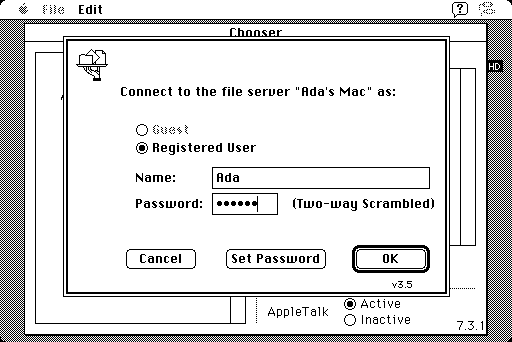
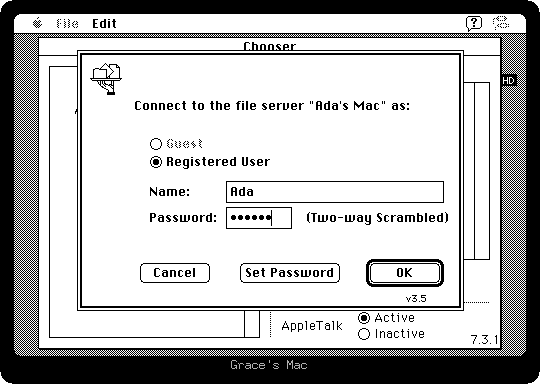
Frame the activity screenshots, and tell Ada's Mac from Grace's
The screenshots are in a black frame with rounded corners, as the glass
of the screen is, so the corners the ROM rounds off read as round
rather than as triangles. On the file sharing page the frame says whose
Macintosh it is, and Grace's screenshots are on the right of the page.
The page now says what to download and what to call it rather than
giving the commands, and that the parameter RAM files do not have to be
there yet.

diff --git a/activities_test.go b/activities_test.go
@@ -1,12 +1,18 @@
 package izmac
 
 import (
+	"image"
+	"image/color"
+	"image/draw"
 	"image/png"
 	"os"
 	"path/filepath"
 	"testing"
 
 	"github.com/ivanizag/izmac/localtalk"
+	"golang.org/x/image/font"
+	"golang.org/x/image/font/basicfont"
+	"golang.org/x/image/math/fixed"
 )
 
 /*
@@ -22,8 +28,66 @@ can be made again when the emulator or the instructions change.
 const activityImages = "doc/activities/images"
 
 // screenshot writes the screen of a machine as one of the images of an
-// activity
+// activity, in its frame
 func screenshot(t *testing.T, m *Mac, activity string, name string) {
+	t.Helper()
+	screenshotOf(t, m, activity, name, "")
+}
+
+/*
+The frame around a screenshot: black, as the glass of the screen of the
+Macintosh is around what it shows, so that the corners the ROM rounds off in
+black read as round, and with rounded corners of its own. A label, when there
+is one, goes in its bottom edge in grey, the way a name is on the front of a
+monitor.
+*/
+const (
+	frameWidth  = 14
+	frameLabel  = 14
+	frameRadius = 12
+)
+
+func framed(screen image.Image, label string) *image.RGBA {
+	b := screen.Bounds()
+	bottom := frameWidth
+	if label != "" {
+		bottom += frameLabel
+	}
+	width, height := b.Dx()+2*frameWidth, b.Dy()+frameWidth+bottom
+	out := image.NewRGBA(image.Rect(0, 0, width, height))
+
+	// Black, but for what the rounding leaves out of each corner
+	corner := func(x int, last int) int {
+		return max(frameRadius-x, x-(last-frameRadius), 0)
+	}
+	for y := 0; y < height; y++ {
+		for x := 0; x < width; x++ {
+			dx, dy := corner(x, width-1), corner(y, height-1)
+			if dx*dx+dy*dy <= frameRadius*frameRadius {
+				out.Set(x, y, color.Black)
+			}
+		}
+	}
+	draw.Draw(out, image.Rect(frameWidth, frameWidth, frameWidth+b.Dx(), frameWidth+b.Dy()),
+		screen, b.Min, draw.Src)
+
+	if label != "" {
+		face := basicfont.Face7x13
+		writer := font.Drawer{
+			Dst:  out,
+			Src:  image.NewUniform(color.Gray{Y: 0xb0}),
+			Face: face,
+		}
+		textWidth := writer.MeasureString(label).Round()
+		writer.Dot = fixed.P((width-textWidth)/2, frameWidth+b.Dy()+frameLabel-1)
+		writer.DrawString(label)
+	}
+	return out
+}
+
+// screenshotOf writes the screen of a machine with a label in its frame,
+// which says whose it is when there are two
+func screenshotOf(t *testing.T, m *Mac, activity string, name string, label string) {
 	t.Helper()
 	folder := filepath.Join(activityImages, activity)
 	if err := os.MkdirAll(folder, 0o755); err != nil {
@@ -34,7 +98,7 @@ func screenshot(t *testing.T, m *Mac, activity string, name string) {
 		t.Fatal(err)
 	}
 	defer f.Close()
-	if err := png.Encode(f, m.GetImage()); err != nil {
+	if err := png.Encode(f, framed(m.GetImage(), label)); err != nil {
 		t.Fatal(err)
 	}
 }
@@ -269,7 +333,7 @@ copies a file into it, which the first then shows. The first runs on a
 goroutine of its own while the second is driven.
 */
 func fileSharingScreenshots(t *testing.T) {
-	const page = "file-sharing"
+	const page, ada, grace = "file-sharing", "Ada's Mac", "Grace's Mac"
 	network := localtalk.NewNetwork()
 	machine := func() *Mac {
 		config := testConfig(t)
@@ -298,15 +362,15 @@ func fileSharingScreenshots(t *testing.T) {
 	typeKeys(server, "Shift+A", "D", "A", "Quote", "S", "Space", "Shift+D", "I", "S", "K")
 	pressKey(server, "Return")
 	server.RunFrames(300)
-	screenshot(t, server, page, "disk-window")
+	screenshotOf(t, server, page, "disk-window", ada)
 	for _, at := range [][2]int16{{160, 92}, {358, 92}} {
 		doubleClickAt(t, server, at[0], at[1])
 		server.RunFrames(900)
 	}
-	screenshot(t, server, page, "control-panels")
+	screenshotOf(t, server, page, "control-panels", ada)
 	doubleClickAt(t, server, 232, 92)
 	server.RunFrames(900)
-	screenshot(t, server, page, "sharing-setup")
+	screenshotOf(t, server, page, "sharing-setup", ada)
 	moveMouseTo(t, server, 300, 85)
 	clickMouse(server)
 	typeKeys(server, "Shift+A", "D", "A")
@@ -317,7 +381,7 @@ func fileSharingScreenshots(t *testing.T) {
 	moveMouseTo(t, server, 148, 197)
 	clickMouse(server)
 	server.RunFrames(3600)
-	screenshot(t, server, page, "sharing-on")
+	screenshotOf(t, server, page, "sharing-on", ada)
 	pressCommand(server, "W")
 	server.RunFrames(300)
 
@@ -337,7 +401,7 @@ func fileSharingScreenshots(t *testing.T) {
 	moveMouseTo(t, server, 26, 106)
 	clickMouse(server)
 	server.RunFrames(120)
-	screenshot(t, server, page, "share-folder")
+	screenshotOf(t, server, page, "share-folder", ada)
 	pressCommand(server, "W")
 	server.RunFrames(600)
 	pressKey(server, "Return")
@@ -385,7 +449,7 @@ func fileSharingScreenshots(t *testing.T) {
 	moveMouseTo(t, client, 330, 78)
 	clickMouse(client)
 	client.RunFrames(60)
-	screenshot(t, client, page, "chooser")
+	screenshotOf(t, client, page, "chooser", grace)
 	moveMouseTo(t, client, 364, 266)
 	clickMouse(client)
 	client.RunFrames(900)
@@ -394,11 +458,11 @@ func fileSharingScreenshots(t *testing.T) {
 	typeKeys(client, "Shift+A", "D", "A")
 	pressKey(client, "Tab")
 	typeText(client, "secret")
-	screenshot(t, client, page, "connect-as")
+	screenshotOf(t, client, page, "connect-as", grace)
 	moveMouseTo(t, client, 390, 258)
 	clickMouse(client)
 	client.RunFrames(900)
-	screenshot(t, client, page, "select-items")
+	screenshotOf(t, client, page, "select-items", grace)
 	moveMouseTo(t, client, 336, 258)
 	clickMouse(client)
 	waitUntil(client, 60, func() bool { return len(mountedVolumes(client)) == 2 })
@@ -406,7 +470,7 @@ func fileSharingScreenshots(t *testing.T) {
 	moveMouseTo(t, client, 34, 32)
 	clickMouse(client)
 	client.RunFrames(1200)
-	screenshot(t, client, page, "mounted")
+	screenshotOf(t, client, page, "mounted", grace)
 
 	// A folder made on the desktop of this one, and dragged into the shared
 	// folder of the other
@@ -417,14 +481,14 @@ func fileSharingScreenshots(t *testing.T) {
 	client.RunFrames(300)
 	doubleClickAt(t, client, 472, 95)
 	client.RunFrames(1500)
-	screenshot(t, client, page, "remote-disk")
+	screenshotOf(t, client, page, "remote-disk", grace)
 	dragTo(t, client, 472, 150, 103, 92)
 	client.RunFrames(1800)
-	screenshot(t, client, page, "copied")
+	screenshotOf(t, client, page, "copied", grace)
 
 	// And the first, stopped to be looked at, has it in its shared folder
 	close(stop)
 	<-stopped
 	server.RunFrames(1200)
-	screenshot(t, server, page, "arrived")
+	screenshotOf(t, server, page, "arrived", ada)
 }

diff --git a/doc/activities/file-sharing.md b/doc/activities/file-sharing.md
@@ -12,23 +12,24 @@ shared, from the Chooser.
 
 This is two Macintoshes in an office: Ada's, which shares its disk, and Grace's,
 which connects to it and puts a folder in it. Both are izmacs on your computer,
-on one emulated LocalTalk.
+on one emulated LocalTalk. The screenshots of Ada's are on the left of the page
+and say *Ada's Mac* under the screen; those of Grace's are on the right, and
+say *Grace's Mac*.
 
 ## What you need
 
-A disk with System 7 and File Sharing installed for each Macintosh. izmac's own
-tests use one, System 7.1.2 on a 4 MB hard disk, made from the
-[MacPack](https://archive.org/details/macpack) at the Internet Archive; download
-it twice, one for each:
+A hard disk with System 7 and File Sharing installed, one for each Macintosh.
+izmac's own tests use one, System 7.1.2 on a 4 MB disk, made from the
+[MacPack](https://archive.org/details/macpack) at the Internet Archive:
 
-```bash
-curl -L -o ada.img https://github.com/ivanizag/izmac/raw/main/test_images/system7.img
-curl -L -o grace.img https://github.com/ivanizag/izmac/raw/main/test_images/system7.img
-```
+1. Download **`system7.img`** from izmac's repository: open
+   [test_images/system7.img](https://github.com/ivanizag/izmac/blob/main/test_images/system7.img)
+   and click the download button, *Download raw file*.
+2. Put it in the folder you run izmac from, and make it two: rename it to
+   **`ada.img`**, and make a copy of it called **`grace.img`**.
 
-Each Macintosh needs its own disk image, since two machines writing to the same
-file would ruin it, and its own parameter RAM file, which is where a Macintosh
-remembers its settings, its address on the network among them.
+Each Macintosh needs a disk of its own: two machines writing to the same file
+would ruin it.
 
 ## Start both
 
@@ -44,12 +45,19 @@ remembers its settings, its address on the network among them.
    izmac -appletalk host -ram 4096 -pram grace.pram grace.img
    ```
 
-   `-appletalk host` puts the printer port of each on a LocalTalk shared by all
-   the izmacs started that way on this computer, and `-ram 4096` gives each the
-   four megabytes that were the most a Plus could have, which System 7 makes
-   good use of. The first time, your computer may ask whether
-   izmac can accept network connections: say yes.
-   [AppleTalk](../appletalk.md) has the other ways of connecting them.
+   `-appletalk host` puts the printer port of each on a LocalTalk shared by
+   all the izmacs started that way on this computer, and `-ram 4096` gives
+   each the four megabytes that were the most a Plus could have, which
+   System 7 makes good use of.
+
+   `-pram` is the file each keeps its settings in, its address on the network
+   among them, and the two need one each. The files do not have to be there
+   yet: izmac makes them the first time the Macintosh changes a setting, which
+   System 7 does as it starts.
+
+   The first time, your computer may ask whether izmac can accept network
+   connections: say yes. [AppleTalk](../appletalk.md) has the other ways of
+   connecting them.
 
 ## Share Ada's disk
 
@@ -102,13 +110,13 @@ The steps in this part are on **Grace's** Macintosh.
 7. **Choose Chooser from the Apple menu**, and click **AppleShare** on its left.
    Every file server on the network appears on the right: Ada's Mac is one.
 
-   ![The Chooser](images/file-sharing/chooser.png)
+   <p align="right"><img src="images/file-sharing/chooser.png" alt="The Chooser"></p>
 
 8. **Click Ada's Mac and OK.** Log in as a **registered user**, with the owner
    name and the password Ada typed in Sharing Setup: *Ada* and *secret*. Then
    click OK.
 
-   ![Connecting as a registered user](images/file-sharing/connect-as.png)
+   <p align="right"><img src="images/file-sharing/connect-as.png" alt="Connecting as a registered user"></p>
 
    The owner of a Macintosh can use all of its disk from another one. Anyone
    else would see only the folders shared with them.
@@ -116,22 +124,22 @@ The steps in this part are on **Grace's** Macintosh.
 9. **Choose the disk** in the list, *Ada's Disk*, and click OK. Then close the
    Chooser.
 
-   ![The items of Ada's Mac](images/file-sharing/select-items.png)
+   <p align="right"><img src="images/file-sharing/select-items.png" alt="The items of Ada's Mac"></p>
 
    Ada's disk is on Grace's desktop now, with the icon of a disk on the network,
    under Grace's own.
 
-   ![Ada's disk on Grace's desktop](images/file-sharing/mounted.png)
+   <p align="right"><img src="images/file-sharing/mounted.png" alt="Ada's disk on Grace's desktop"></p>
 
 10. **Make a folder and copy it across**: choose New Folder from the File menu,
     type *From Grace* and press Return. A folder appears on the desktop. Then
     double-click Ada's disk to open it, and drag the folder onto *Shared*.
 
-    ![Ada's disk on Grace's Macintosh](images/file-sharing/remote-disk.png)
+    <p align="right"><img src="images/file-sharing/remote-disk.png" alt="Ada's disk on Grace's Macintosh"></p>
 
     The folder is copied over the network into Ada's shared folder.
 
-    ![Copied](images/file-sharing/copied.png)
+    <p align="right"><img src="images/file-sharing/copied.png" alt="Copied"></p>
 
 ## Back on Ada's
 
